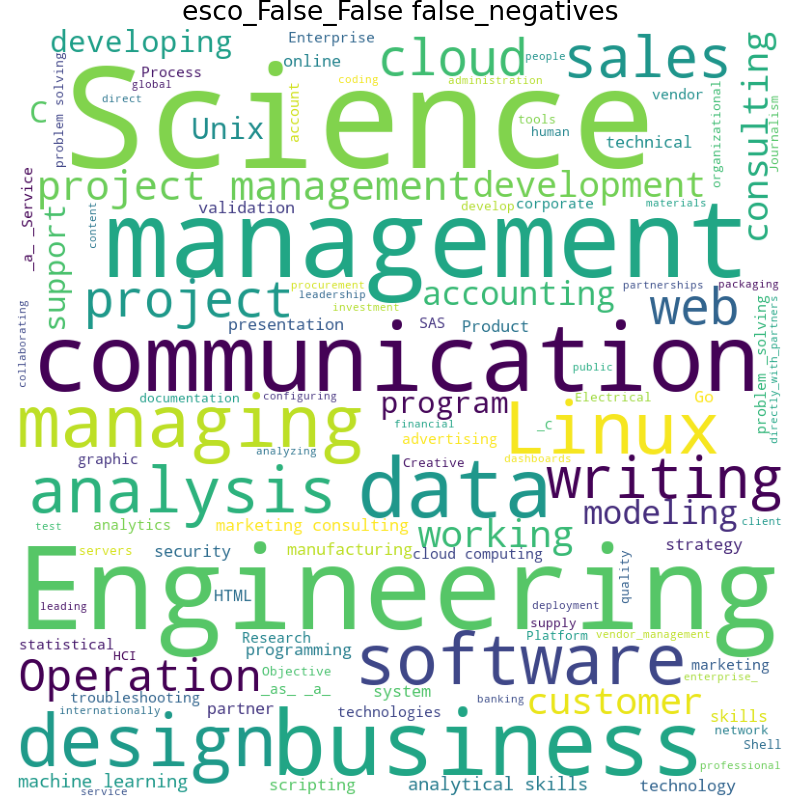
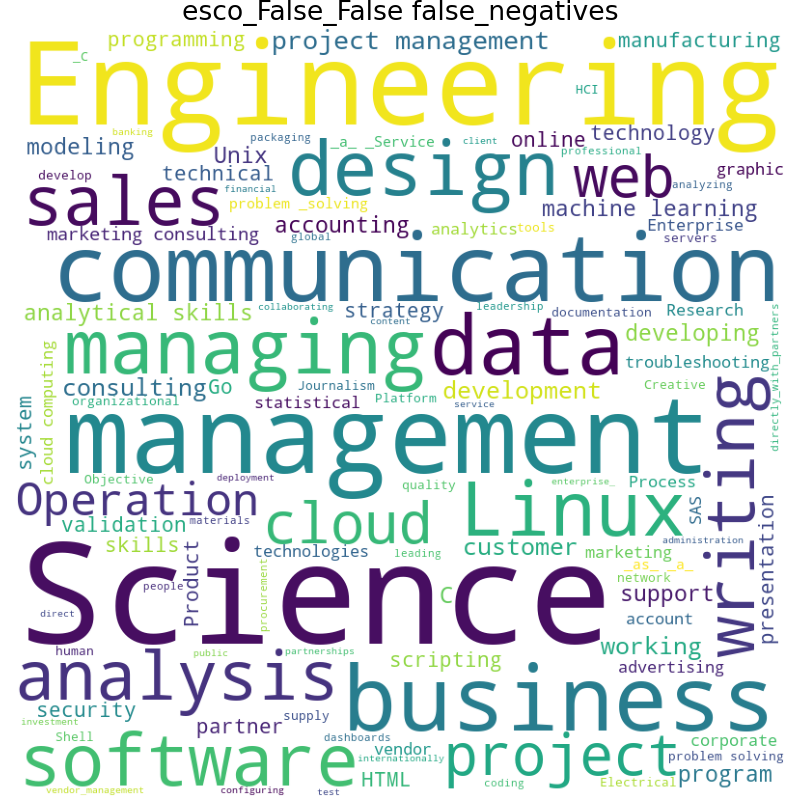
visualizations

diff --git a/run_ner.py b/run_ner.py
@@ -6,33 +6,48 @@ import pandas as pd
 from utils import initialize_ner_model_with_dictionaries, concatenate_consecutive, add_noun_chunks
 
 models_to_run = {}
-dictionaries_to_run = [['esco']]
+dictionaries_to_run = [['esco','linkedin','employment']]
 
 for dictionary_names_to_run in dictionaries_to_run:
-    dictionaries_locations = [os.path.join('dictionaries',f'{dictionary_name}.txt') for dictionary_name in
+    dictionaries_locations = [os.path.join('dictionaries', f'{dictionary_name}.txt') for dictionary_name in
                               dictionary_names_to_run]
     models_to_run['+'.join(dictionary_names_to_run)] = initialize_ner_model_with_dictionaries(dictionaries_locations)
 
 save_extractions = True
 
-general_input_dataset_directory = 'drive/My Drive/Skills datasets'
-general_output_dataset_directory = 'drive/My Drive/Skills datasets/dictionary_NER_annotations'
+general_input_dataset_directory = 'data/original_datasets'
+general_output_dataset_directory = 'data/annotated_datasets'
 datasets = {
     'annotated': {
         'input_file_location': f'annotated_data.csv',
         'columns_to_annotate': ['text'],
         'output_file_location': f'annotated_data.json'
+    },
+
+    'google': {
+        'input_file_location': f'google_jobs_dataset.csv',
+        'columns_to_annotate': ['Minimum Qualifications','Preferred Qualifications'],
+        'output_file_location': f'google_jobs_dataset.json'
+    },
+
+    'amazon': {
+        'input_file_location': f'amazon_jobs_dataset.csv',
+        'columns_to_annotate': ['BASIC QUALIFICATIONS', 'PREFERRED QUALIFICATIONS'],
+        'output_file_location': f'google_jobs_dataset.json'
     }
+
 }
 
 from collections import defaultdict
-use_already_generated=False
-for dataset_name in ['annotated']:
 
-    df_to_annotate = pd.read_csv(datasets[dataset_name]["input_file_location"])
+use_already_generated = False
+for dataset_name in ['google', 'amazon']:
+
+    df_to_annotate = pd.read_csv(os.path.join(general_input_dataset_directory, datasets[dataset_name]["input_file_location"]))
     output_data = []
-    if use_already_generated and os.path.isfile(datasets[dataset_name]["output_file_location"]):
-        with open(datasets[dataset_name]["output_file_location"], 'r') as out_file:
+    output_file_name = os.path.join(general_output_dataset_directory, datasets[dataset_name]["output_file_location"])
+    if use_already_generated and os.path.isfile(output_file_name):
+        with open(output_file_name, 'r') as out_file:
             output_data = json.load(out_file)
     print(models_to_run)
     print(df_to_annotate.shape)
@@ -45,7 +60,7 @@ for dataset_name in ['annotated']:
         row_to_save = row.copy().to_dict()
         for column_to_annotate in datasets[dataset_name]['columns_to_annotate']:
             all_unique = defaultdict(lambda: 0)
-            all_unique_noun_chunks = defaultdict(lambda: 0)
+
             for model_name, model in models_to_run.items():
 
                 input_text = row[column_to_annotate]
@@ -60,11 +75,10 @@ for dataset_name in ['annotated']:
                     concatenated_entities = add_noun_chunks(input_text, concatenated_entities)
                     row_to_save[f'{column_to_annotate}_{model_name}_concatenated_consecutive'] = concatenated_entities
 
-
             rows_to_save.append(row_to_save)
             if index % 100 == 0:
-                with open(datasets[dataset_name]["output_file_location"], 'w') as out_file:
+                with open(output_file_name, 'w') as out_file:
                     json.dump(rows_to_save, out_file, indent=4)
 
-    with open(datasets[dataset_name]["output_file_location"], 'w') as out_file:
+    with open(output_file_name, 'w') as out_file:
         json.dump(rows_to_save, out_file, indent=4)

diff --git a/visualize_results.py b/visualize_results.py
@@ -14,6 +14,12 @@ postprocessing_description = {
     '_False_True': 'WNCE'
 }
 
+dictionary_formatting = {
+    'esco': 'ESCO',
+    'pdl': 'PDL',
+    'employment': 'Employment',
+    'linkedin': 'LinkedIn'
+}
 matplotlib.rcParams.update({'font.size': 16})
 all_result_df = pd.DataFrame()
 single_dictionary_result_df = pd.DataFrame()
@@ -33,7 +39,7 @@ for result_file in os.listdir('data/evaluation_results'):
         dictionary = model_name.replace('_True','').replace('_False','')
         if dictionary=='support_2':
             continue
-        results['dictionary']= dictionary
+        results['dictionary']= '+'.join([dictionary_formatting[d] for d in dictionary.split('+')])
         results['model_name'] = model_name
         results['postprocessing']=postprocessing_description[model_name.replace(dictionary,'')]
         results['false_positives'] = false_positives
@@ -60,14 +66,17 @@ print(all_result_df)
                     orientation='portrait', transparent=True)'''
 
 for result_name, result_df in [#('all', all_result_df),
-                               #('single', single_dictionary_result_df),
-                               ('multiple', multiple_dictionary_result_df)]:
+                               ('single', single_dictionary_result_df),
+                               #('multiple', multiple_dictionary_result_df)
+    ]:
     fig, ax = plt.subplots(1, result_df['dictionary'].drop_duplicates().shape[0], sharey=True, sharex=True)
     for index, dictionary in enumerate(result_df['dictionary'].drop_duplicates().values):
         dictionary_df = result_df[result_df['dictionary']==dictionary]
+
         ax[index].set_title(dictionary)
         dictionary_df.plot(y=['f1','precision','recall'], x='postprocessing', kind='bar', color=['#77019b','#afd92f','#42a2c8'], ax = ax[index])
         ax[index].get_legend().remove()
+
     handles, labels = ax[0].get_legend_handles_labels()
 
     fig.legend(handles, labels, loc='lower center')
@@ -79,16 +88,9 @@ print(single_dictionary_result_df.columns)
 single_dictionary_no_postprocessing_results = single_dictionary_result_df[single_dictionary_result_df['postprocessing']=='None']
 for index, row in single_dictionary_no_postprocessing_results.iterrows():
     for error_column in ['false_positives', 'false_negatives']:
-        joined_errors = []
-        error = ''
-        for error_piece in row[error_column]:
-            error += row[error_column]
-
-
-
         wordcloud = WordCloud(width=800, height=800,
                               background_color='white',
-                              min_font_size=10).generate(' '.join([e.replace(' ', '_') for e in joined_errors]))
+                              min_font_size=10).generate(' '.join([e.replace(' ', '_') for e in row[error_column]]))
 
         # plot the WordCloud image
         plt.figure(figsize=(8, 8), facecolor=None)

diff --git a/visualize_results_fused_dictionaries.py b/visualize_results_fused_dictionaries.py
@@ -7,14 +7,20 @@ import seaborn as sns
 import matplotlib.pyplot as plt
 from wordcloud import WordCloud
 from matplotlib.pyplot import figure
+
 postprocessing_description = {
     '_True_True': 'CSC_WNCE',
     '_True_False': 'CSC',
     '_False_False': 'None',
     '_False_True': 'WNCE'
 }
-
-matplotlib.rcParams.update({'font.size': 10})
+dictionary_formatting = {
+    'esco': 'ESCO',
+    'pdl': 'PDL',
+    'employment': 'Employment',
+    'linkedin': 'LinkedIn'
+}
+matplotlib.rcParams.update({'font.size': 14})
 all_result_df = pd.DataFrame()
 single_dictionary_result_df = pd.DataFrame()
 multiple_dictionary_result_df = pd.DataFrame()
@@ -66,6 +72,7 @@ for result_name, result_df in [#('all', all_result_df),
 
     result_df=result_df[result_df['postprocessing']=='None']
     result_df=result_df.sort_values('dictionaries_included')
+    result_df['dictionary']=result_df['dictionary'].apply(lambda dictionary: '+'.join([dictionary_formatting[d] for d in dictionary.split('+')]))
     result_df.plot(y=['f1','precision','recall'], x='dictionary', kind='bar', color=['#77019b','#afd92f','#42a2c8'])
     fig, ax = plt.subplots(1, 1, sharey=True, sharex=True)
     handles, labels = ax.get_legend_handles_labels()

diff --git a/try.py b/try.py
@@ -1,23 +1,1 @@
 import pandas as pd
-from wordcloud import WordCloud
-import matplotlib.pyplot as plt
-df = pd.read_csv('annotated_data.csv', index_col=[0])
-print(df.groupby('source').count()['text'])
-print(df.groupby('Title').count()['text'].drop_duplicates())
-print(df['Title'].drop_duplicates())
-
-
-
-wordcloud = WordCloud(width=800, height=800,
-                              background_color='white',
-                              min_font_size=10).generate(' '.join( df['text'].drop_duplicates()))
-
-# plot the WordCloud image
-plt.figure(figsize=(8, 8), facecolor=None)
-plot_title = f'Job posting title'
-plt.title(plot_title)
-plt.imshow(wordcloud)
-plt.axis("off")
-plt.tight_layout(pad=0)
-plt.savefig(f'evaluation_visualization/job_posting_text.png', dpi=None,
-            orientation='portrait', transparent=True, pad_inches=0.1)

diff --git a/wordcloud_visualization.py b/wordcloud_visualization.py
@@ -1,0 +1,23 @@
+import pandas as pd
+from wordcloud import WordCloud
+import matplotlib.pyplot as plt
+df = pd.read_csv('annotated_data.csv', index_col=[0])
+print(df.groupby('source').count()['text'])
+print(df.groupby('Title').count()['text'].drop_duplicates())
+print(df['Title'].drop_duplicates())
+
+
+
+wordcloud = WordCloud(width=800, height=800,
+                              background_color='white',
+                              min_font_size=10).generate(' '.join( df['text'].drop_duplicates()))
+
+# plot the WordCloud image
+plt.figure(figsize=(8, 8), facecolor=None)
+plot_title = f'Job posting title'
+plt.title(plot_title)
+plt.imshow(wordcloud)
+plt.axis("off")
+plt.tight_layout(pad=0)
+plt.savefig(f'evaluation_visualization/job_posting_text.png', dpi=None,
+            orientation='portrait', transparent=True, pad_inches=0.1)
